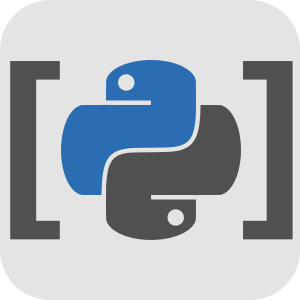
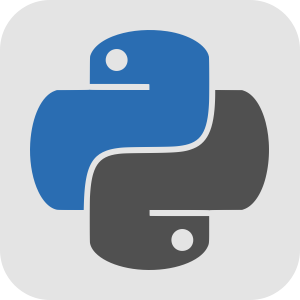
Minor update
Changes the extension icon for a cleaner look. Adds `mypy` version note in README.

diff --git a/README.md b/README.md
@@ -10,6 +10,10 @@ have one already.
 
 Mypy can be installed simply by running `pip install mypy`.
 
+**Note**: The `--show-error-end` option only exists in version `0.981` or higher.
+Remove it from the global extension configuration if using an earlier version. Yet
+it’s better to use the latest `mypy` available.
+
 ## Configuration
 
 The extension supports both global and workspace configurations.
